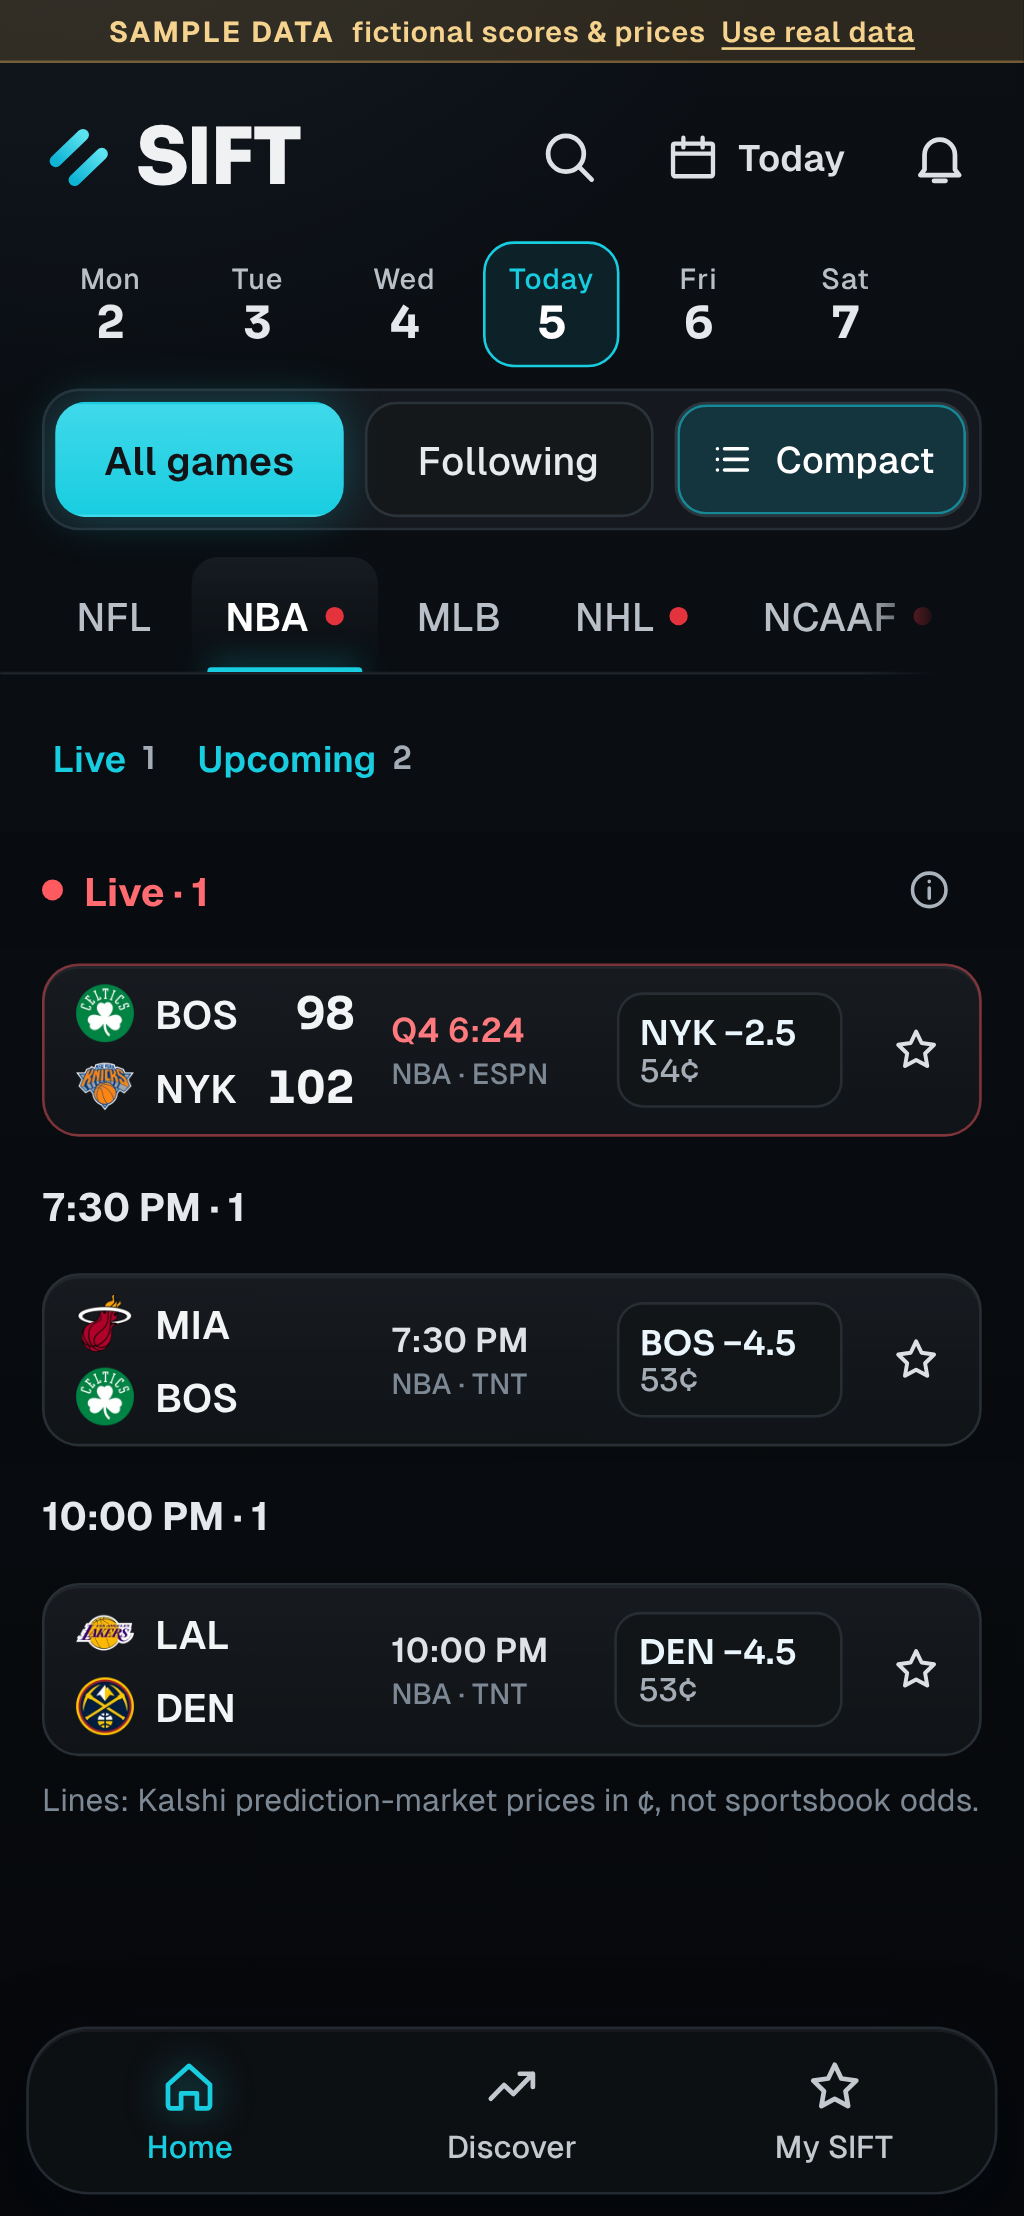
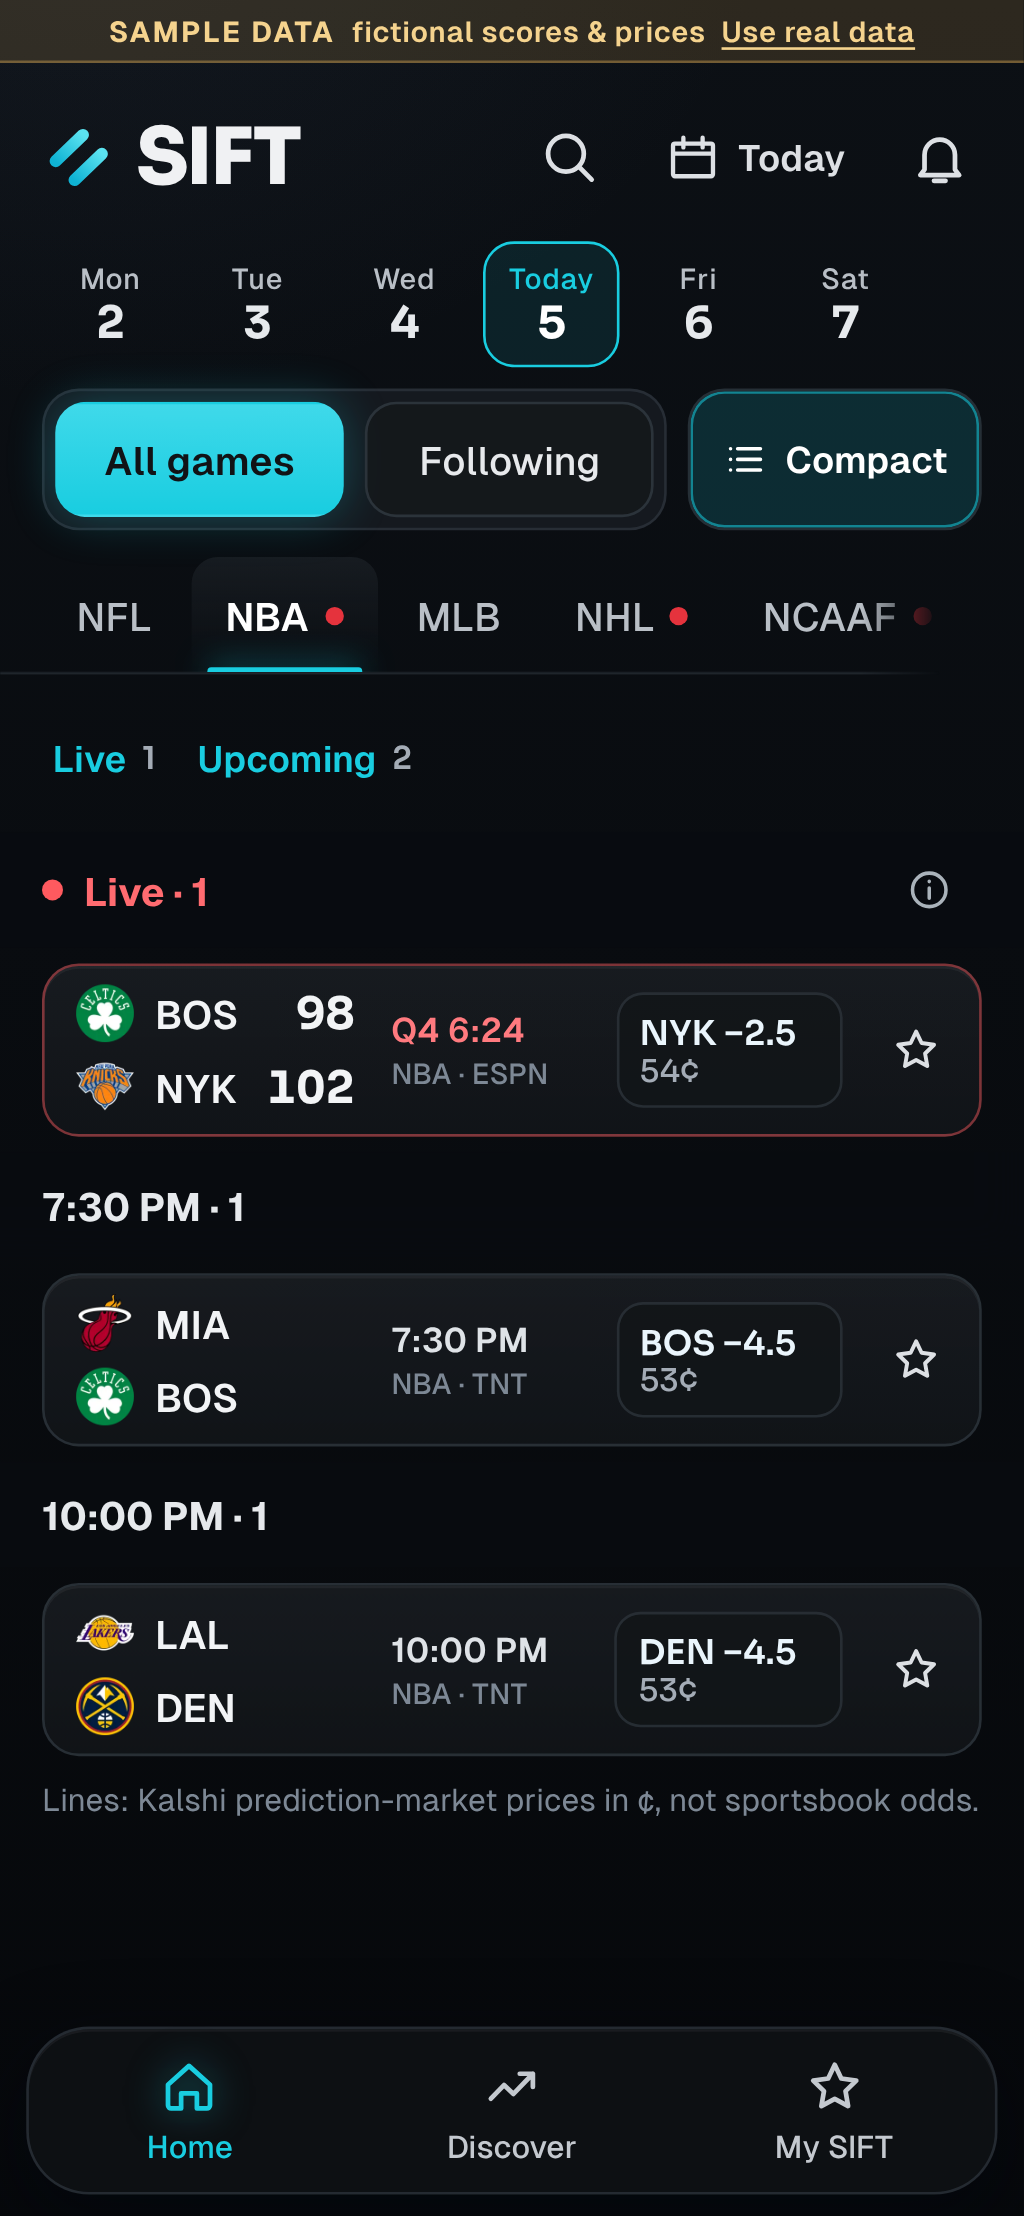
Home density toggle sits outside the tablist (axe)
Claude-Session: https://claude.ai/code/session_01H5Aao1VNrGnBXmTsZ9HXd4

Changed region(s): [[0.6562, 0.1557, 0.9688, 0.2491], [0.4375, 0.1868, 0.5938, 0.218]]

diff --git a/src/v3/screens/Home.tsx b/src/v3/screens/Home.tsx
@@ -165,10 +165,12 @@ export function Home() {
       {saved.length > 0 && <div className="v3-state v3-state--warn" role="status" style={{ marginTop: 12 }}><Icon name="info" size={20} /><div><b>Saved copy in use</b>{saved.map((x) => x.label).join(', ')} {saved.length === 1 ? 'is' : 'are'} showing the research saved with this app because the live publication could not be read. Prices appear only when a current Kalshi quote is available.</div></div>}
       {!unavailable && failed.length > 0 && <div className="v3-state" style={{ marginTop: 12 }}><Icon name="info" size={20} /><div><b>{failed.length} feed{failed.length === 1 ? '' : 's'} unavailable</b>{failed.join(', ')} could not be read; showing everything else.</div></div>}
 
+      <div className="v3-segrow">
       <div className="v3-seg" role="tablist" aria-label="Games shown">
         <button type="button" role="tab" aria-selected={!following} onClick={() => setView('all')}>All games</button>
         <button type="button" role="tab" aria-selected={following} onClick={() => setView('following')}>Following{!noFollows && <i>{followCount(follows)}</i>}</button>
-        <button type="button" className="v3-density" aria-pressed={compact} aria-label={compact ? 'Compact view on. Switch to full cards' : 'Switch to compact view: more games per screen'} onClick={() => setPrefs({ homeDensity: compact ? 'full' : 'compact' })}><Icon name="list" size={18} />{compact ? 'Compact' : 'Full'}</button>
+      </div>
+      <button type="button" className="v3-density" aria-pressed={compact} aria-label={compact ? 'Compact view on. Switch to full cards' : 'Switch to compact view: more games per screen'} onClick={() => setPrefs({ homeDensity: compact ? 'full' : 'compact' })}><Icon name="list" size={18} />{compact ? 'Compact' : 'Full'}</button>
       </div>
 
       {following && !waiting && noFollows && (

diff --git a/src/v3/screens/games.css b/src/v3/screens/games.css
@@ -101,9 +101,10 @@
 .v3-seg button[aria-pressed='true'] { color: #ffffff; background: rgba(25, 205, 224, 0.16); box-shadow: inset 0 0 0 1px rgba(25, 205, 224, 0.55); }
 
 /* Home density: the toggle sits at the end of the All games | Following control; compact rows show about twice as many games per screen. */
-.v3-seg:has(.v3-density) { grid-template-columns: 1fr 1fr auto; }
-.v3-seg .v3-density { padding: 0 12px; font-size: 14px; color: #c4c9cf; }
-.v3-seg .v3-density[aria-pressed='true'] { color: #fff; background: rgba(25, 205, 224, 0.16); box-shadow: inset 0 0 0 1px rgba(25, 205, 224, 0.55); }
+.v3-segrow { display: flex; gap: 8px; align-items: stretch; margin: 6px 0 10px; }
+.v3-segrow .v3-seg { flex: 1; margin: 0; }
+.v3-density { display: inline-flex; align-items: center; gap: 6px; padding: 0 12px; min-height: 44px; border-radius: 14px; background: rgba(22, 27, 33, 0.9); border: 1px solid rgba(41, 48, 55, 0.9); font: 600 14px/1 var(--f-ui); color: #c4c9cf; }
+.v3-density[aria-pressed='true'] { color: #fff; background: rgba(25, 205, 224, 0.16); box-shadow: inset 0 0 0 1px rgba(25, 205, 224, 0.55); }
 .v3-gclist--compact { gap: 6px; }
 .v3-gcc { position: relative; display: grid; grid-template-columns: minmax(112px, 1.1fr) minmax(0, 0.9fr) auto 40px; align-items: center; column-gap: 8px; padding: 4px 4px 4px 12px; min-height: 60px; border-radius: 14px; background: var(--panel); border: 1px solid rgba(41, 48, 55, 0.95); box-shadow: var(--lit); }
 .v3-gcc.is-live { border-color: rgba(255, 90, 95, 0.45); }
